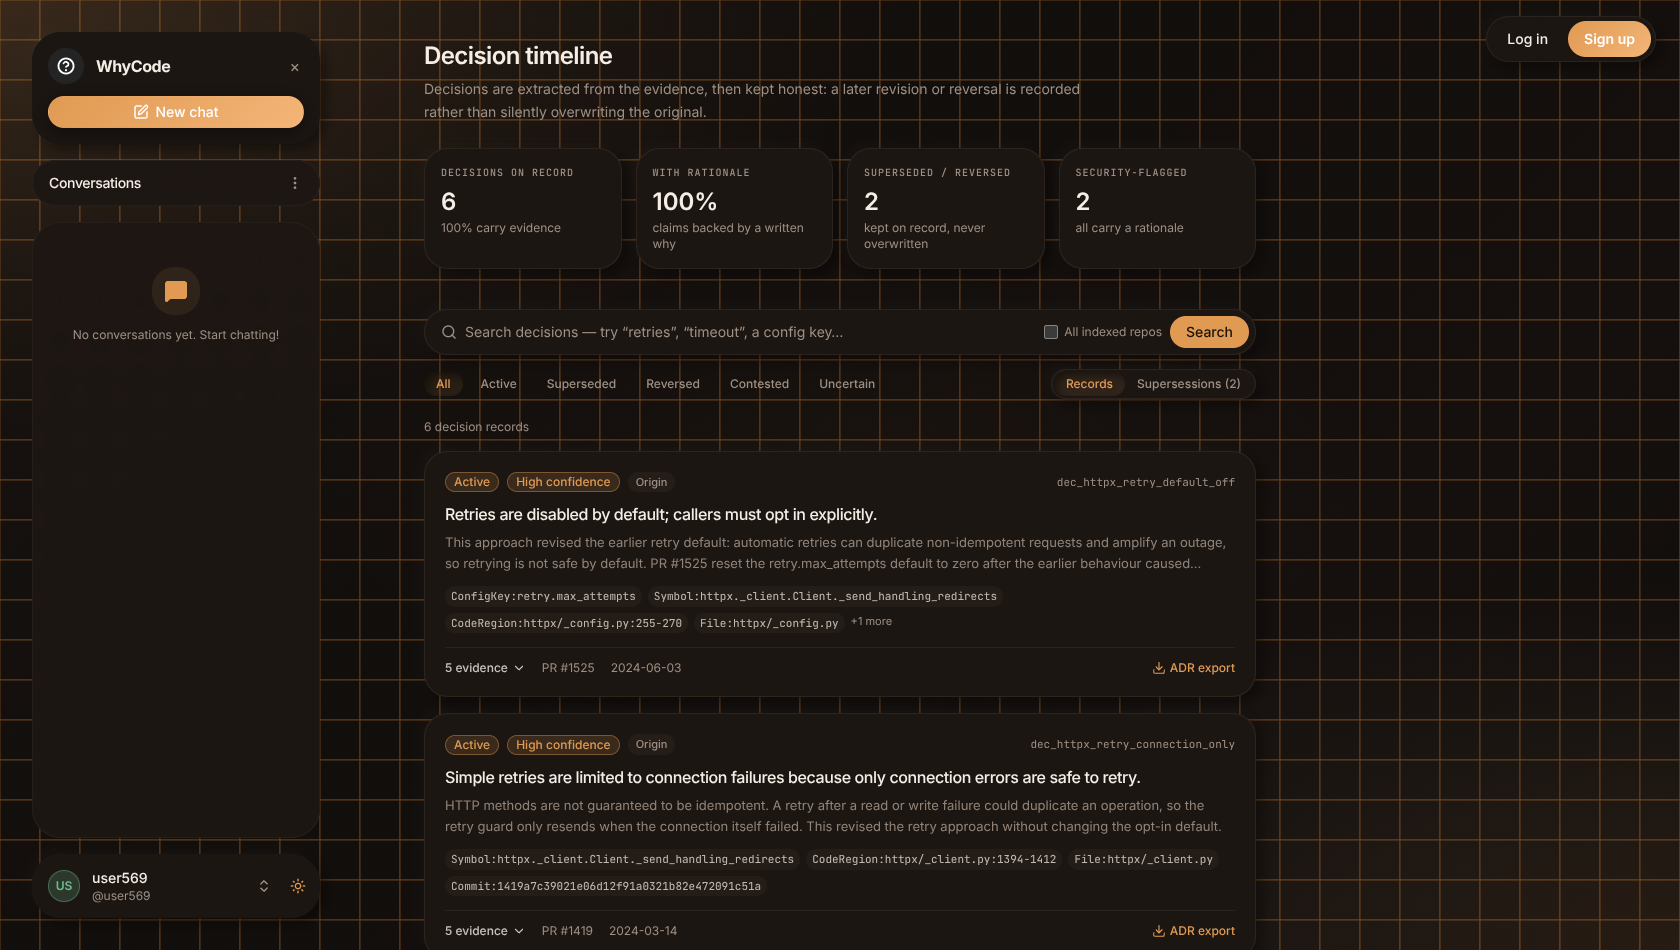
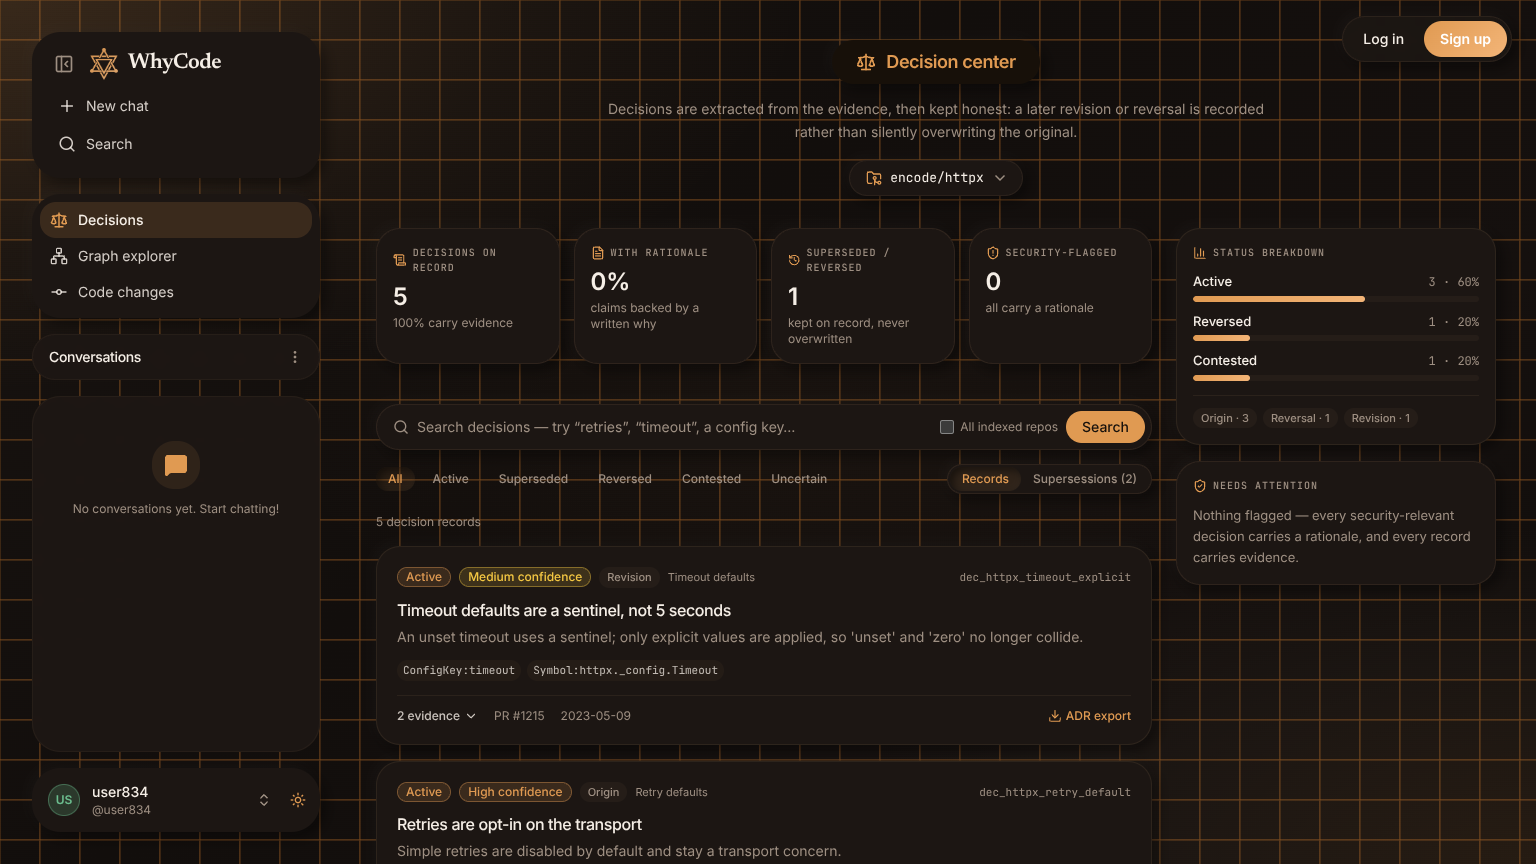
docs: document the explorer pages, typo-tolerant chat search and the changes feed

diff --git a/README.md b/README.md
@@ -61,13 +61,17 @@ in the real modules and config the answer touched — never invented.
 One graph engine renders every view: the answer's Connections tab, its Graph path tab, the rail
 thumbnail, the fullscreen explorer (pan, zoom, drag nodes) and the `/graph` page. Edges are typed —
 *changed in*, *decided in*, *supported by* — so the chain from a question to its evidence is auditable.
+The explorer page pairs the canvas with a decision tracer that retells the traced path step by step,
+one hop at a time.
 
 ### Decision center — every decision on record, kept honest
 
 <img src="assets/readme/decisions-dark.png" alt="Decisions page: audit summary cards, search, status filters and decision record cards with ADR export" width="100%" />
 
 Extracted decisions are browsable, searchable and auditable. A later revision or reversal is recorded
-as a supersession — the original is never silently overwritten.
+as a supersession — the original is never silently overwritten. The page pairs the explorer with a
+live audit rail — a status breakdown, the records that need attention, and recent webhook activity —
+and the repository can be switched right on the page.
 
 ### Sharing and settings
 
@@ -115,6 +119,8 @@ as a supersession — the original is never silently overwritten.
 
 ### Conversations
 
+- The sidebar collapses to an icon rail from its panel control, and its search **tolerates typos** —
+  one or two wrong letters still find the chat, across titles and answer text.
 - Chats are saved locally in your browser: rename (the header keeps its size while you edit), export
   to Markdown, delete one or clear all.
 - **Incognito mode** — while it's on, your saved history disappears from the panel entirely, anything
@@ -147,6 +153,15 @@ as a supersession — the original is never silently overwritten.
 - **Audit & compliance report** — rationale/evidence coverage, plus the flags that matter:
   security- or incident-relevant decisions missing a rationale, and decisions with no evidence.
 - **ADR export** — download any record as an Architecture Decision Record (Markdown) or JSON.
+- **Explorer pages** — the decision center, the graph explorer and code changes are one click away in
+  the sidebar. Each page carries its own repository switcher and a dedicated right rail: decision
+  health (status breakdown, needs-attention flags, live updates), a step-by-step path tracer, and
+  change activity (line volume, top contributors, most-touched files).
+- **Code changes feed** — every change card shows the reasoning behind the change, who wrote,
+  reviewed and took part, and a button that opens the carrying commit on GitHub. Line stats and
+  touched files come from the real commit data; a commit that references a pull request links to
+  that pull request, and one that landed directly is labelled "Direct commit" — nothing is
+  synthesized to fill a gap.
 - **Fresh data without setup** — the Repository card's **Refresh data** button re-derives a repo's
   decisions from current GitHub data (rate-limited per repo). Repository *owners* can additionally
   register a GitHub webhook for automatic refresh on merged PRs (HMAC-verified, deduplicated);
@@ -301,7 +316,7 @@ ruff check app tests
 mypy app
 ```
 
-Current backend result: **1,103 passed**, 15 pre-existing failures in the live-mode contract tests,
+Current backend result: **1,109 passed**, 13 pre-existing failures in the live-mode contract tests,
 12 skipped (opt-in live Neo4j / live LLM tests). `tests/structure/` is a legacy parallel contract
 suite that conflicts with `tests/structural/` at collection time; the canonical suite excludes it.
 

diff --git a/frontend/README.md b/frontend/README.md
@@ -55,9 +55,9 @@ npm run typecheck  # tsc --noEmit
 | Route | Screen |
 | --- | --- |
 | `/` | **Chat.** Landing hero (repo selector, example questions, Why?/Plan mode switch, model picker) that turns into a conversation: answers with Evidence / Graph path / Decisions tabs — plus Plan and Connections tabs in Plan mode. The right rail (wide screens) carries rotating "Ask a why" prompts, the active answer's graph bubble and the Repository card with its real GitHub *About* text and a **Refresh data** button. |
-| `/decisions` | **Decision center.** Audit summary, live-updates feed, and the decision explorer: search (optionally across all indexed repos), status filters, Records/Supersessions views, evidence drill-down and ADR export. |
-| `/graph` | **Graph explorer.** The shared graph canvas over the repository's decisions. |
-| `/changes` | **Code changes.** What changed, the reasoning behind it and the PR that carried it. |
+| `/decisions` | **Decision center.** Audit summary, live-updates feed, and the decision explorer: search (optionally across all indexed repos), status filters, Records/Supersessions views, evidence drill-down and ADR export. A right rail adds the status breakdown, needs-attention flags and live updates; the repository can be switched on the page. |
+| `/graph` | **Graph explorer.** The shared graph canvas over the repository's decisions, with a tracer rail that retells the traced path step by step. |
+| `/changes` | **Code changes.** What changed, the reasoning behind it and the PR that carried it — real commit stats, a view-on-GitHub button per commit, and a change-activity rail (volume, contributors, most-touched files). |
 | `/people`, `/people/[login]` | **People.** Contributors and their changes, PRs and reviews. |
 | `/settings` | **Settings.** Identity (account name/handle when signed in, editable guest profile otherwise), appearance/theme, haptics toggle, default repository, session and data controls. |
 | `/login`, `/signup` | **Auth.** Standalone pages (no sidebar) with an animated product showcase; signup verifies the email with a 6-digit OTP step. |

diff --git a/backend/README.md b/backend/README.md
@@ -145,7 +145,7 @@ ruff check app tests
 mypy app
 ```
 
-Current state: **1,103 passed, 15 pre-existing failures in the live-mode contract tests, 12 skipped**.
+Current state: **1,109 passed, 13 pre-existing failures in the live-mode contract tests, 12 skipped**.
 
 - `tests/structure/` is a legacy parallel contract suite that conflicts with `tests/structural/` at collection. The canonical suite excludes it.
 - The skipped tests are opt-in live integrations: Neo4j store tests (enable with `WHYCODE_TEST_NEO4J_URI` plus `_USER`, `_PASSWORD` and `_DATABASE`) and the live-LLM smoke test (`tests/intent/test_llm_live.py`, one tiny request with a throwaway ledger; enable with `WHYCODE_TEST_LLM=1` plus `WHYCODE_TEST_LLM_API_KEY`).
